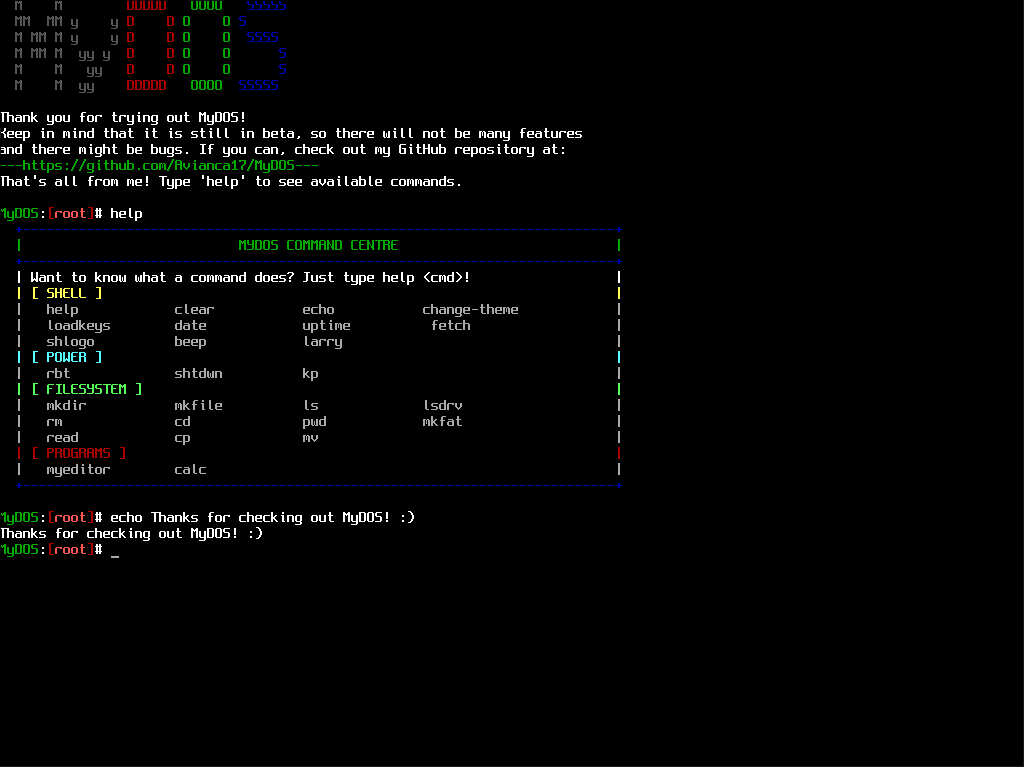
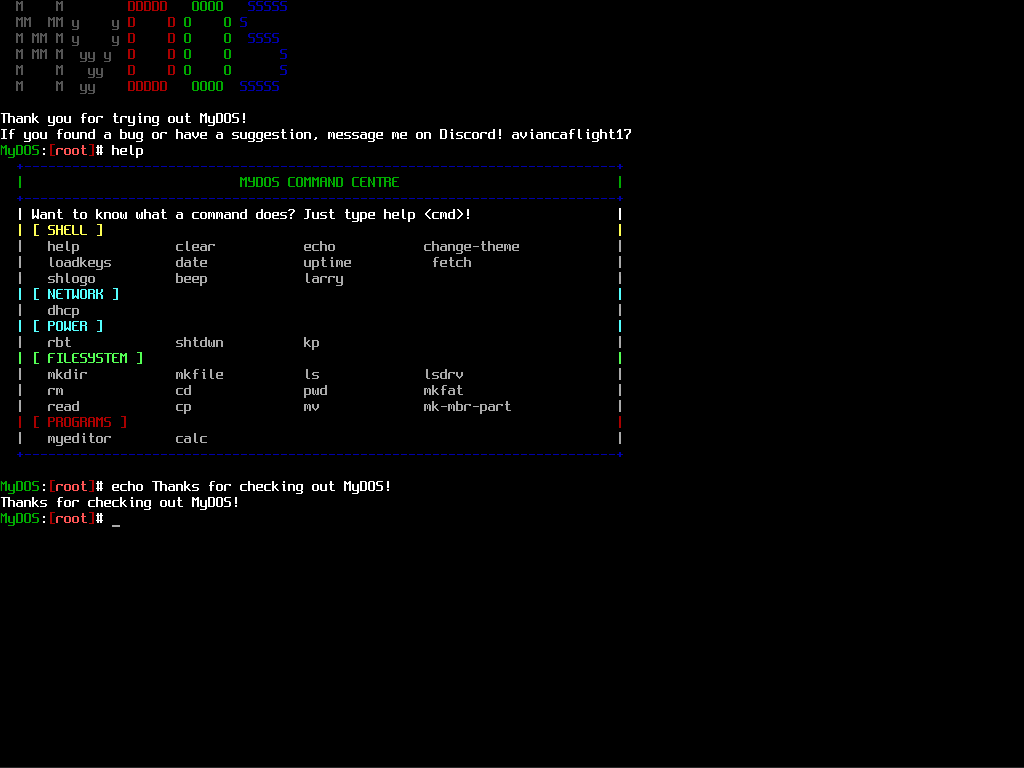
updated image and readme

diff --git a/README.md b/README.md
@@ -1,7 +1,7 @@
 # MyDOS
 
 MyDOS is my own 32-bit x86 hobby OS inspired by FreeDOS and the Linux kernel written in C and
-assembly. It boots through Limine using the Multiboot 1 protocol. The hybrid ISO
+assembly. It boots through Limine using the Multiboot 1 protocol. The ISO
 supports both Legacy BIOS and UEFI! It runs great on QEMU, VirtualBox, VMware and 86Box.
 I have not tested it on real hardware yet, so I doubt it boots :/ 
 
@@ -17,6 +17,7 @@ I have not tested it on real hardware yet, so I doubt it boots :/
 - DHCP over Intel e1000 and Realtek RTL8139/8129 Ethernet controllers
 - Built-in text editor and calculator
 - Live installer that copies MyDOS and Limine boot files to a disk (I am very proud of this one!)
+- Networking! 
 
 ## Boot options
 
@@ -43,6 +44,9 @@ Shell:
 - `uptime [-p|--pretty] [-s|--seconds]`
 - `fetch`, `shlogo`, `larry`, `beep`
 
+Networking:
+- `dhcp`
+
 Files and disks:
 
 - `ls [path]`, `cd <path>`, `pwd`, `read <filename>`
@@ -54,7 +58,7 @@ Files and disks:
 
 System:
 
-- `rbt` reboots; `shtdwn` halts the CPU (a VM may not power off)
+- `rbt` reboots; `shtdwn` shuts down the VM (Only QEMU for now)
 - `kp` deliberately triggers a kernel panic for testing
 
 ## Installing to a disk
